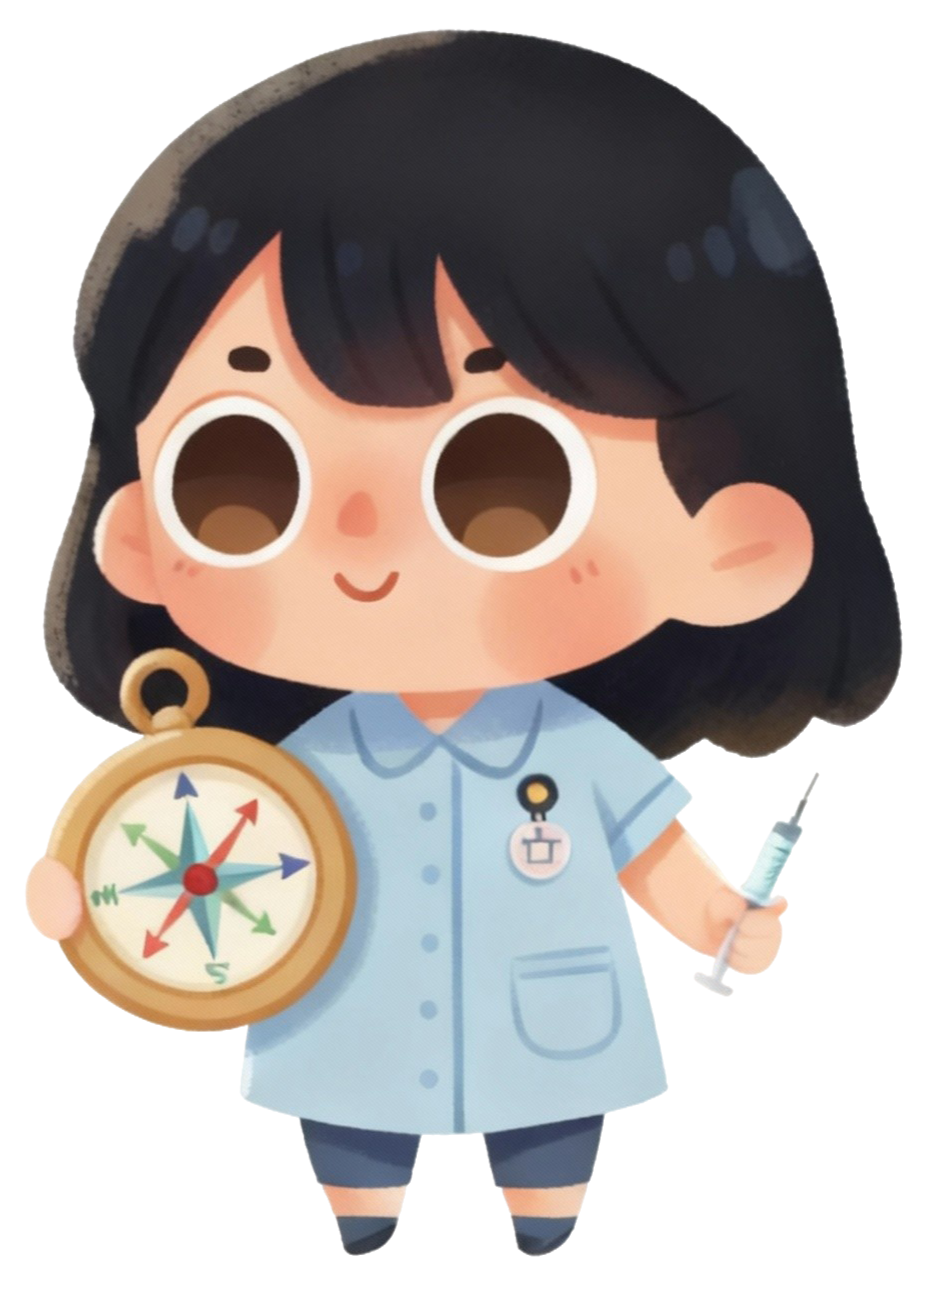
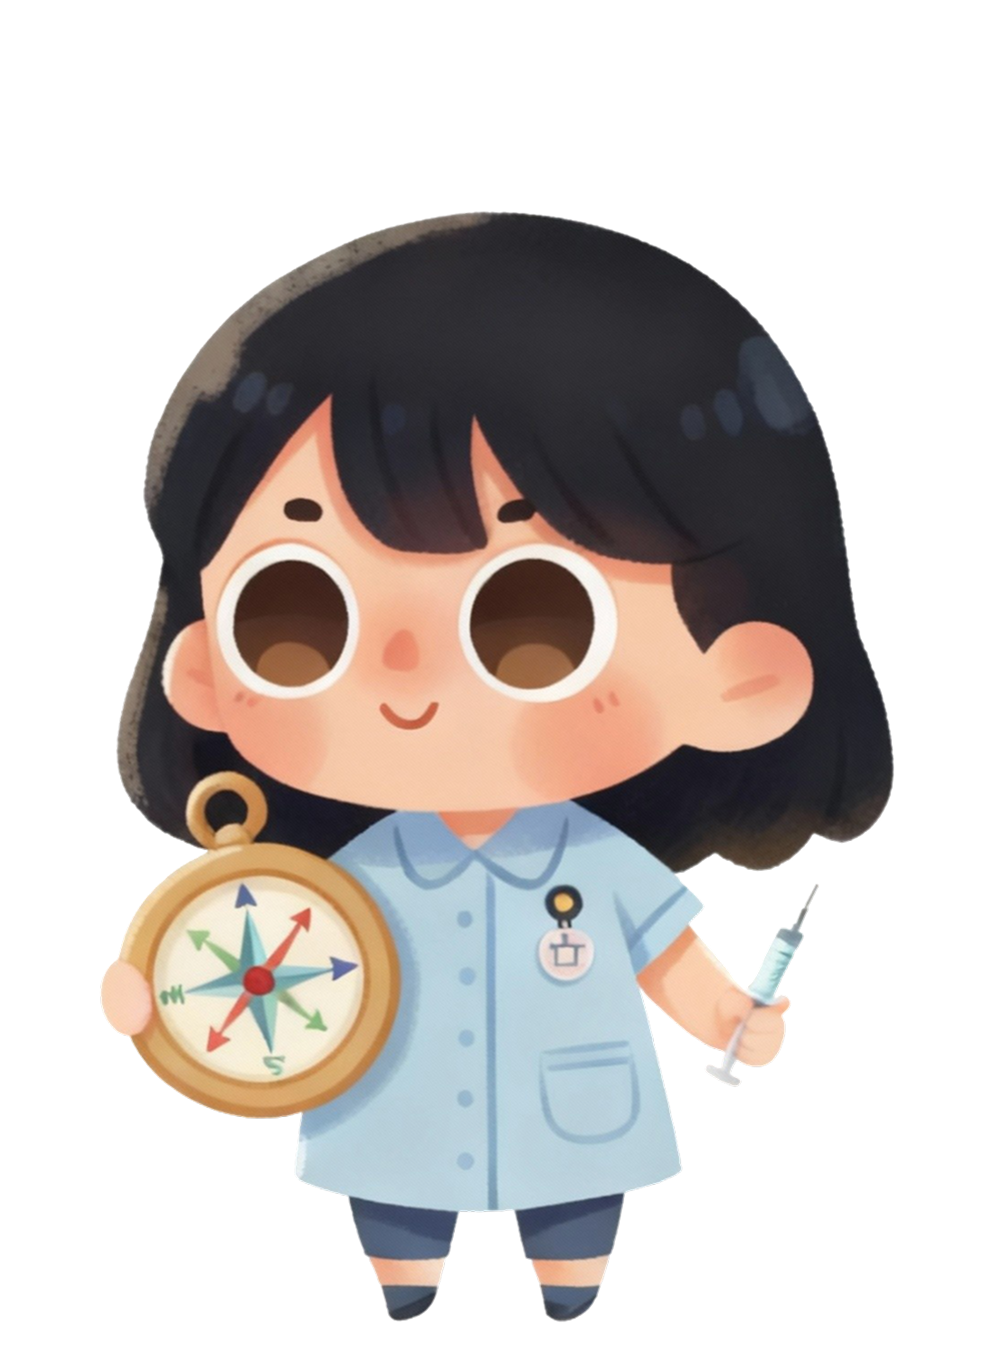
fixing shareable options

diff --git a/livo-wrapped-mobile-main/src/components/ShareButtons.tsx b/livo-wrapped-mobile-main/src/components/ShareButtons.tsx
@@ -1,13 +1,14 @@
-import { IconDownload, IconLoader2 } from '@tabler/icons-react';
+import { IconShare, IconLoader2 } from '@tabler/icons-react';
 import html2canvas from 'html2canvas';
 import { toast } from 'sonner';
 import { useState } from 'react';
 
 interface ShareButtonsProps {
   cardRef: React.RefObject<HTMLDivElement>;
+  referralCode: string;
 }
 
-const ShareButtons = ({ cardRef }: ShareButtonsProps) => {
+const ShareButtons = ({ cardRef, referralCode }: ShareButtonsProps) => {
   const [isLoading, setIsLoading] = useState(false);
 
   const generateImage = async (): Promise<Blob | null> => {
@@ -54,7 +55,7 @@ const ShareButtons = ({ cardRef }: ShareButtonsProps) => {
       const link = document.createElement('a');
       link.download = 'livo-wrapped.png';
       link.href = URL.createObjectURL(blob);
-      document.body.appendChild(link); // Append to body to ensure click works in some browsers
+      document.body.appendChild(link);
       link.click();
       document.body.removeChild(link);
       URL.revokeObjectURL(link.href);
@@ -63,6 +64,14 @@ const ShareButtons = ({ cardRef }: ShareButtonsProps) => {
       console.error('Direct download failed:', e);
       toast.error('No se pudo guardar la imagen');
     }
+  };
+
+  const getShareText = () => {
+    return `Este es mi Livo Wrapped ✨
+
+Un año lleno de turnos, aprendizaje y personas que lo hacen todo posible.
+
+Si tú también quieres elegir dónde y cuándo trabajar 👉 https://campaigns.getlivo.com/mgm/${referralCode}?campaign_id=MGM_2025`;
   };
 
   const shareImage = async (blob: Blob) => {
@@ -74,8 +83,8 @@ const ShareButtons = ({ cardRef }: ShareButtonsProps) => {
       if (navigator.canShare && navigator.canShare({ files: [file] })) {
         await navigator.share({
           files: [file],
-          title: 'Comparte o guarda la imagen',
-          text: 'Guardar en tu galería',
+          title: 'Mi Livo Wrapped',
+          text: getShareText(),
         });
         toast.success('¡Imagen compartida!');
       } else {
@@ -115,14 +124,14 @@ const ShareButtons = ({ cardRef }: ShareButtonsProps) => {
       <button
         onClick={handleShareImage}
         disabled={isLoading}
-        className="flex flex-col items-center gap-2 px-6 py-3 bg-white/10 border border-white/20 rounded-xl hover:bg-white/20 transition-colors disabled:opacity-50 disabled:cursor-not-allowed"
+        className="flex flex-row items-center gap-3 px-5 py-2 bg-white/10 border border-white/20 rounded-xl hover:bg-white/20 transition-colors disabled:opacity-50 disabled:cursor-not-allowed"
       >
         {isLoading ? (
-          <IconLoader2 size={24} className="text-white animate-spin" />
+          <IconLoader2 size={20} className="text-white animate-spin" />
         ) : (
-          <IconDownload size={24} className="text-white" />
+          <IconShare size={20} className="text-white" />
         )}
-        <span className="text-sm text-white font-medium">Guardar en galería</span>
+        <span className="text-sm text-white font-medium">Comparte tu Wrapped</span>
       </button>
     </div>
   );

diff --git a/livo-wrapped-mobile-main/src/pages/Index.tsx b/livo-wrapped-mobile-main/src/pages/Index.tsx
@@ -466,31 +466,42 @@ const Index = () => {
                 <IconReplace size={20} className="text-[#36C3A0]" />
               </button>
 
-              <div className="relative w-full h-full flex flex-col" style={{ padding: '20px' }}>
-                {/* Logo top left - con margen suficiente */}
-                <img
-                  src={livoLogo}
-                  alt="Livo"
-                  style={{ 
-                    position: 'absolute',
-                    top: '20px',
-                    left: '20px',
-                    height: '28px',
-                    width: 'auto',
-                    opacity: 1,
-                    zIndex: 20,
-                  }}
-                />
+              <div style={{ 
+                position: 'relative',
+                width: '100%', 
+                height: '100%', 
+                display: 'flex',
+                flexDirection: 'column',
+                padding: '24px',
+                boxSizing: 'border-box',
+              }}>
+                {/* Logo top left */}
+                <div style={{ marginBottom: '16px' }}>
+                  <img
+                    src={livoLogo}
+                    alt="Livo"
+                    style={{ 
+                      height: '32px',
+                      width: 'auto',
+                      display: 'block',
+                    }}
+                  />
+                </div>
 
                 {/* Inner content for sharing */}
-                <div className="flex flex-col items-center h-full" style={{ paddingTop: '40px' }}>
-                    {/* Top section: Character illustration - ratio 514x750 */}
+                <div style={{ 
+                  display: 'flex',
+                  flexDirection: 'column',
+                  alignItems: 'center',
+                  flex: 1,
+                }}>
+                    {/* Top section: Character illustration - ratio 1000x1339 */}
                     <div className="flex-1 flex items-center justify-center w-full">
                       <img
                         src={getNurseImageUrl(userData.bucket_image_url, nurseVariant)}
                         alt={userData.bucket}
                         style={{
-                          width: '137px',  // Mantiene ratio 514:750
+                          width: '149px',  // Mantiene ratio 1000:1339
                           height: '200px',
                           objectFit: 'contain',
                           opacity: 1,
@@ -567,7 +578,7 @@ const Index = () => {
             </div>
 
             {/* Share buttons (not included in screenshot) */}
-            <ShareButtons cardRef={cardRef} />
+            <ShareButtons cardRef={cardRef} referralCode={userData.referral_code} />
             
             {/* Spacer para el progress bar */}
             <div className="h-4" />

diff --git a/livo-wrapped-mobile-main/src/components/StatCard.tsx b/livo-wrapped-mobile-main/src/components/StatCard.tsx
@@ -27,57 +27,68 @@ const StatCard = ({
     return (
       <div 
         style={{ 
-          width: '140px',
-          height: '70px',
-          padding: '10px 12px',
+          padding: '12px',
           borderRadius: '16px',
-          display: 'flex',
-          flexDirection: 'column',
-          justifyContent: 'center',
-          gap: '4px',
-          opacity: 1,
           backgroundColor: highlight ? 'rgba(54, 195, 160, 0.15)' : 'rgba(17, 68, 84, 0.08)',
           border: highlight ? '1px solid rgba(54, 195, 160, 0.3)' : '1px solid rgba(17, 68, 84, 0.1)',
         }}
       >
-        <div style={{ display: 'flex', alignItems: 'center', gap: '8px' }}>
+        {/* Row con icono y valor */}
+        <div style={{ 
+          display: 'flex',
+          flexDirection: 'row',
+          alignItems: 'center',
+          marginBottom: '6px',
+          height: '32px',
+        }}>
+          {/* Cuadrado del icono */}
           <div 
             style={{
-              width: '28px',
-              height: '28px',
+              width: '32px',
+              height: '32px',
+              minWidth: '32px',
+              minHeight: '32px',
+              backgroundColor: highlight ? 'rgba(54, 195, 160, 0.2)' : 'rgba(17, 68, 84, 0.1)',
+              borderRadius: '8px',
               display: 'flex',
               alignItems: 'center',
               justifyContent: 'center',
-              backgroundColor: highlight ? 'rgba(54, 195, 160, 0.2)' : 'rgba(17, 68, 84, 0.1)',
-              borderRadius: '8px',
               color: '#36C3A0',
+              flexShrink: 0,
             }}
           >
-            {icon}
+            <span style={{ display: 'flex', alignItems: 'center', justifyContent: 'center' }}>
+              {icon}
+            </span>
           </div>
+          {/* Número */}
           <span 
             style={{ 
+              marginLeft: '8px',
               fontSize: '20px',
               fontWeight: 700,
               color: highlight ? '#36C3A0' : '#114454',
-              lineHeight: '1',
+              lineHeight: '32px',
+              height: '32px',
+              display: 'flex',
+              alignItems: 'center',
             }}
           >
             {value}
           </span>
         </div>
-        <p 
+        {/* Label debajo */}
+        <div 
           style={{ 
             fontSize: '10px',
             fontWeight: 500,
             textTransform: 'uppercase',
             letterSpacing: '0.05em',
             color: highlight ? 'rgba(54, 195, 160, 0.7)' : 'rgba(17, 68, 84, 0.5)',
-            margin: 0,
           }}
         >
           {label}
-        </p>
+        </div>
       </div>
     );
   }

diff --git a/livo-wrapped-mobile-main/src/types/user.ts b/livo-wrapped-mobile-main/src/types/user.ts
@@ -19,5 +19,6 @@ export interface UserData {
   evening_shifts: number;
   preferred_time: string;
   bucket_image_url: string;
+  referral_code: string;
 }
 
